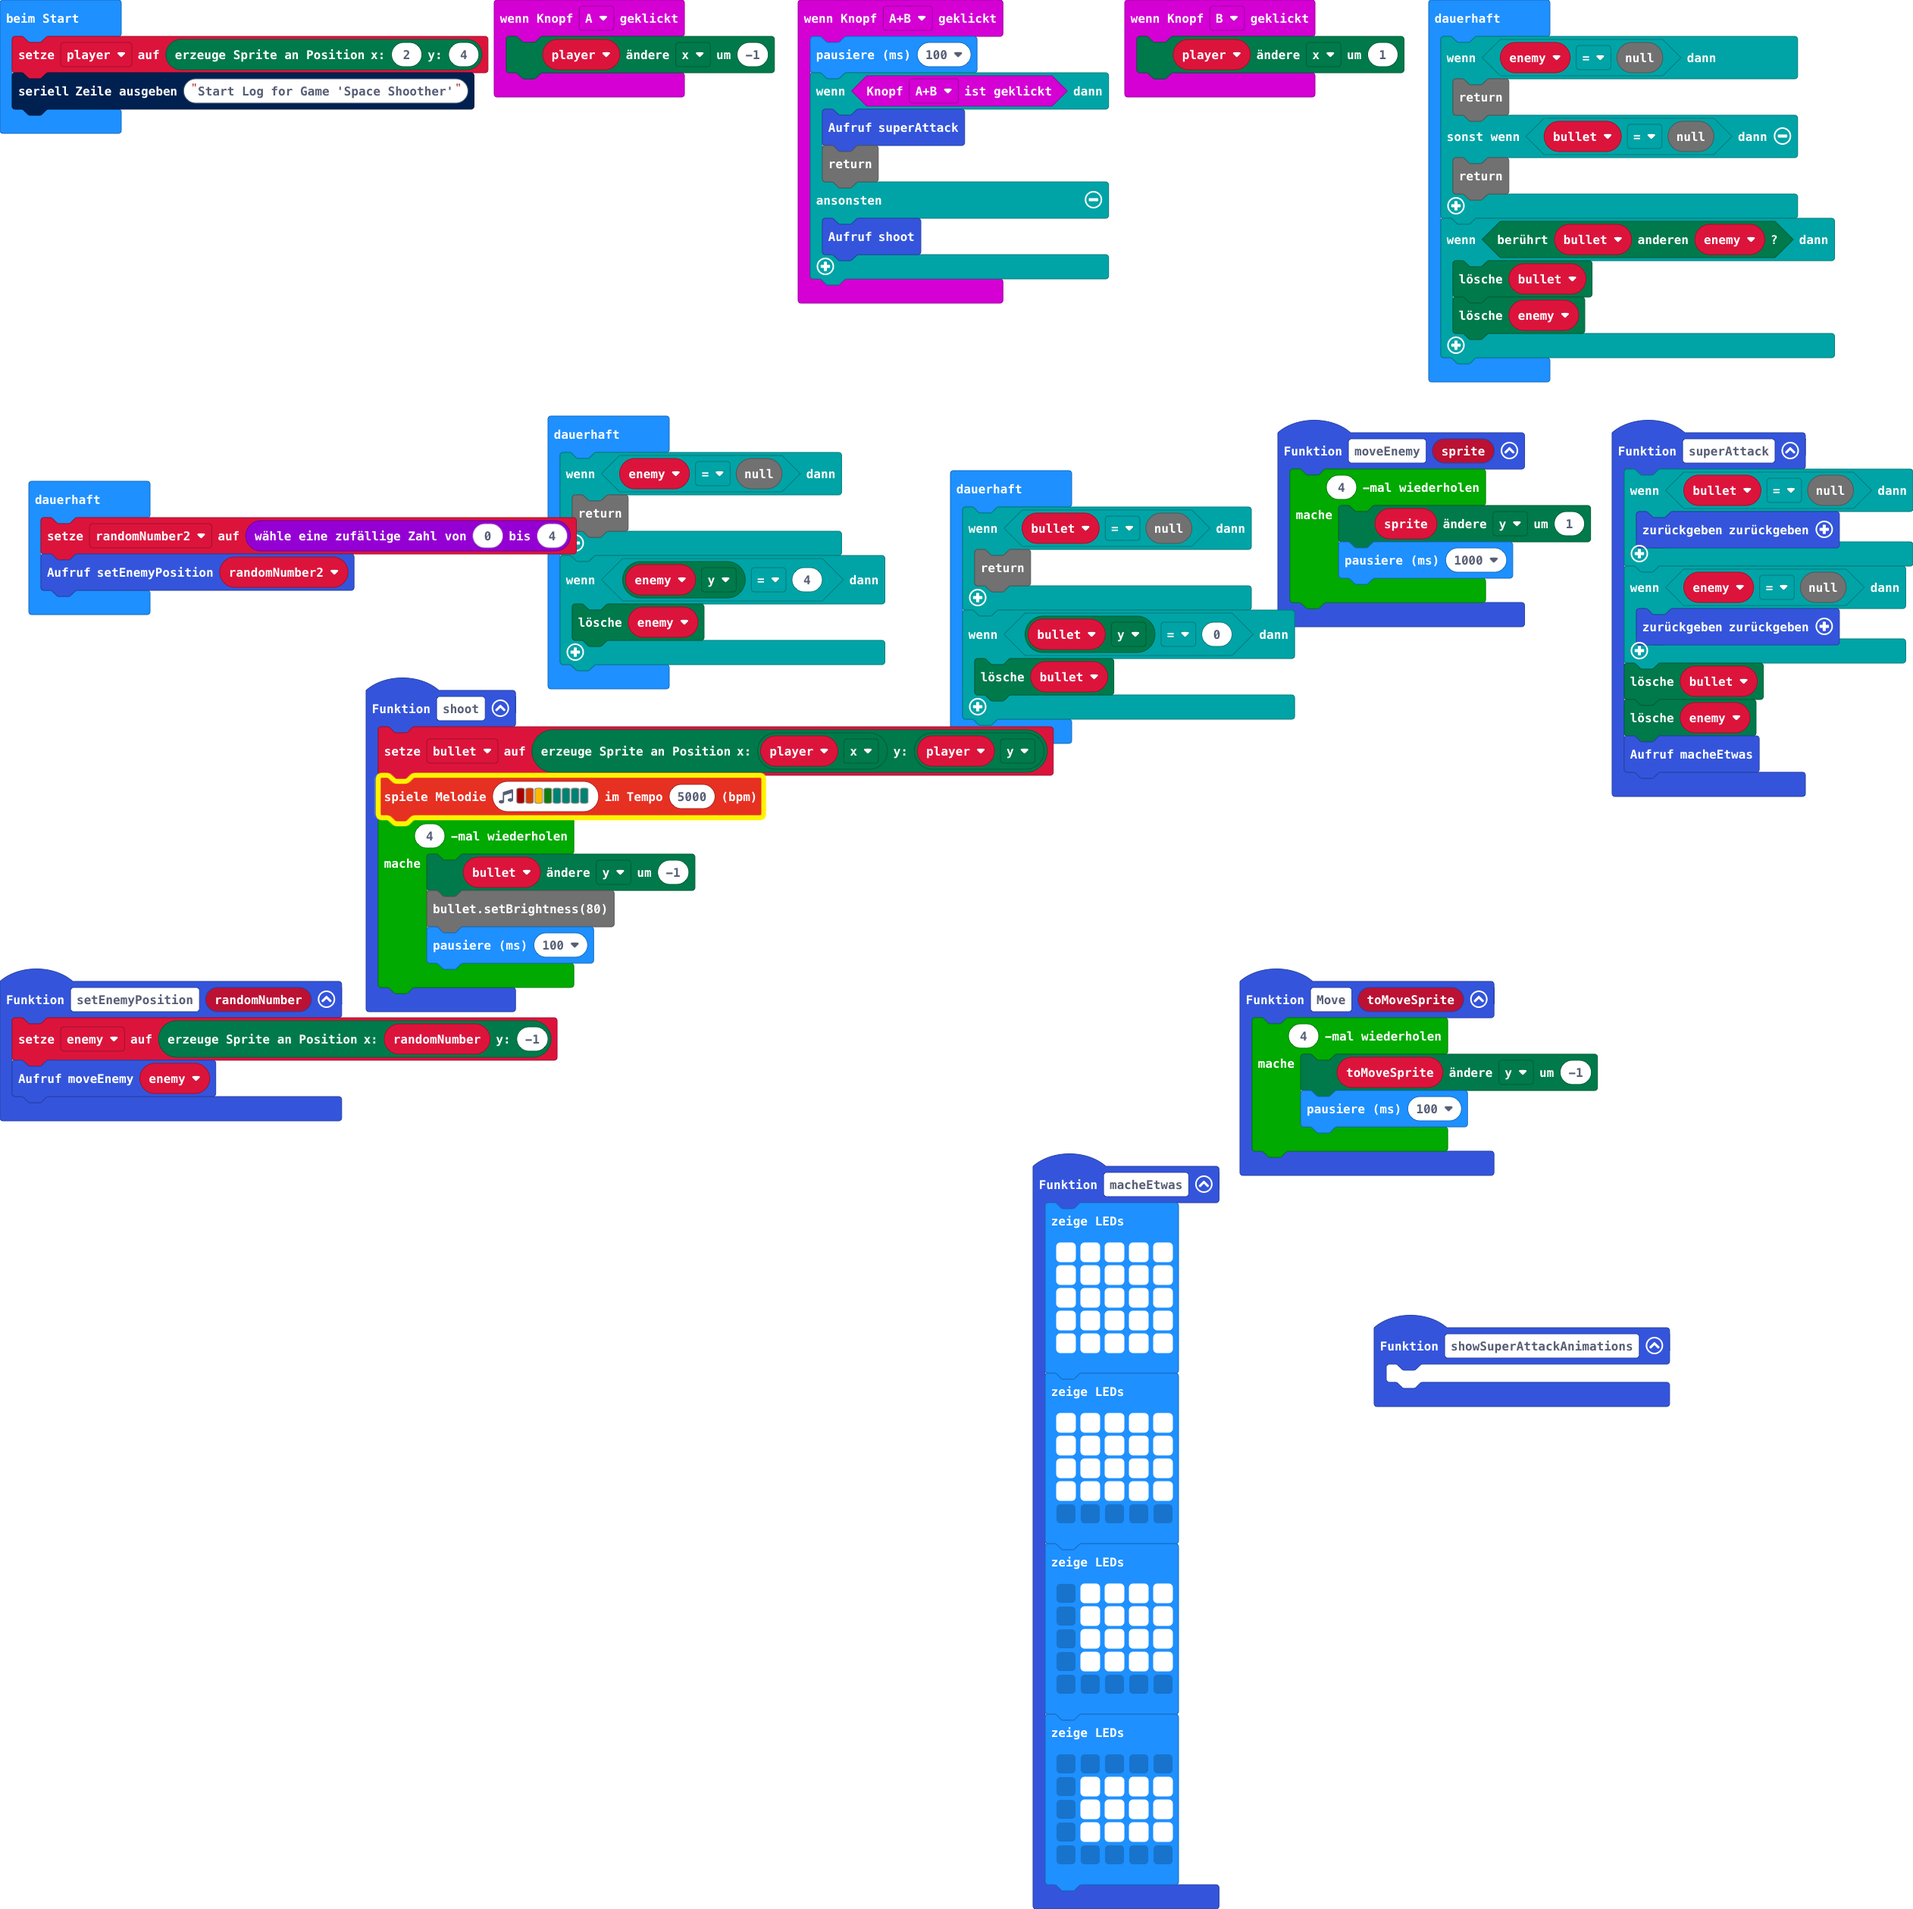
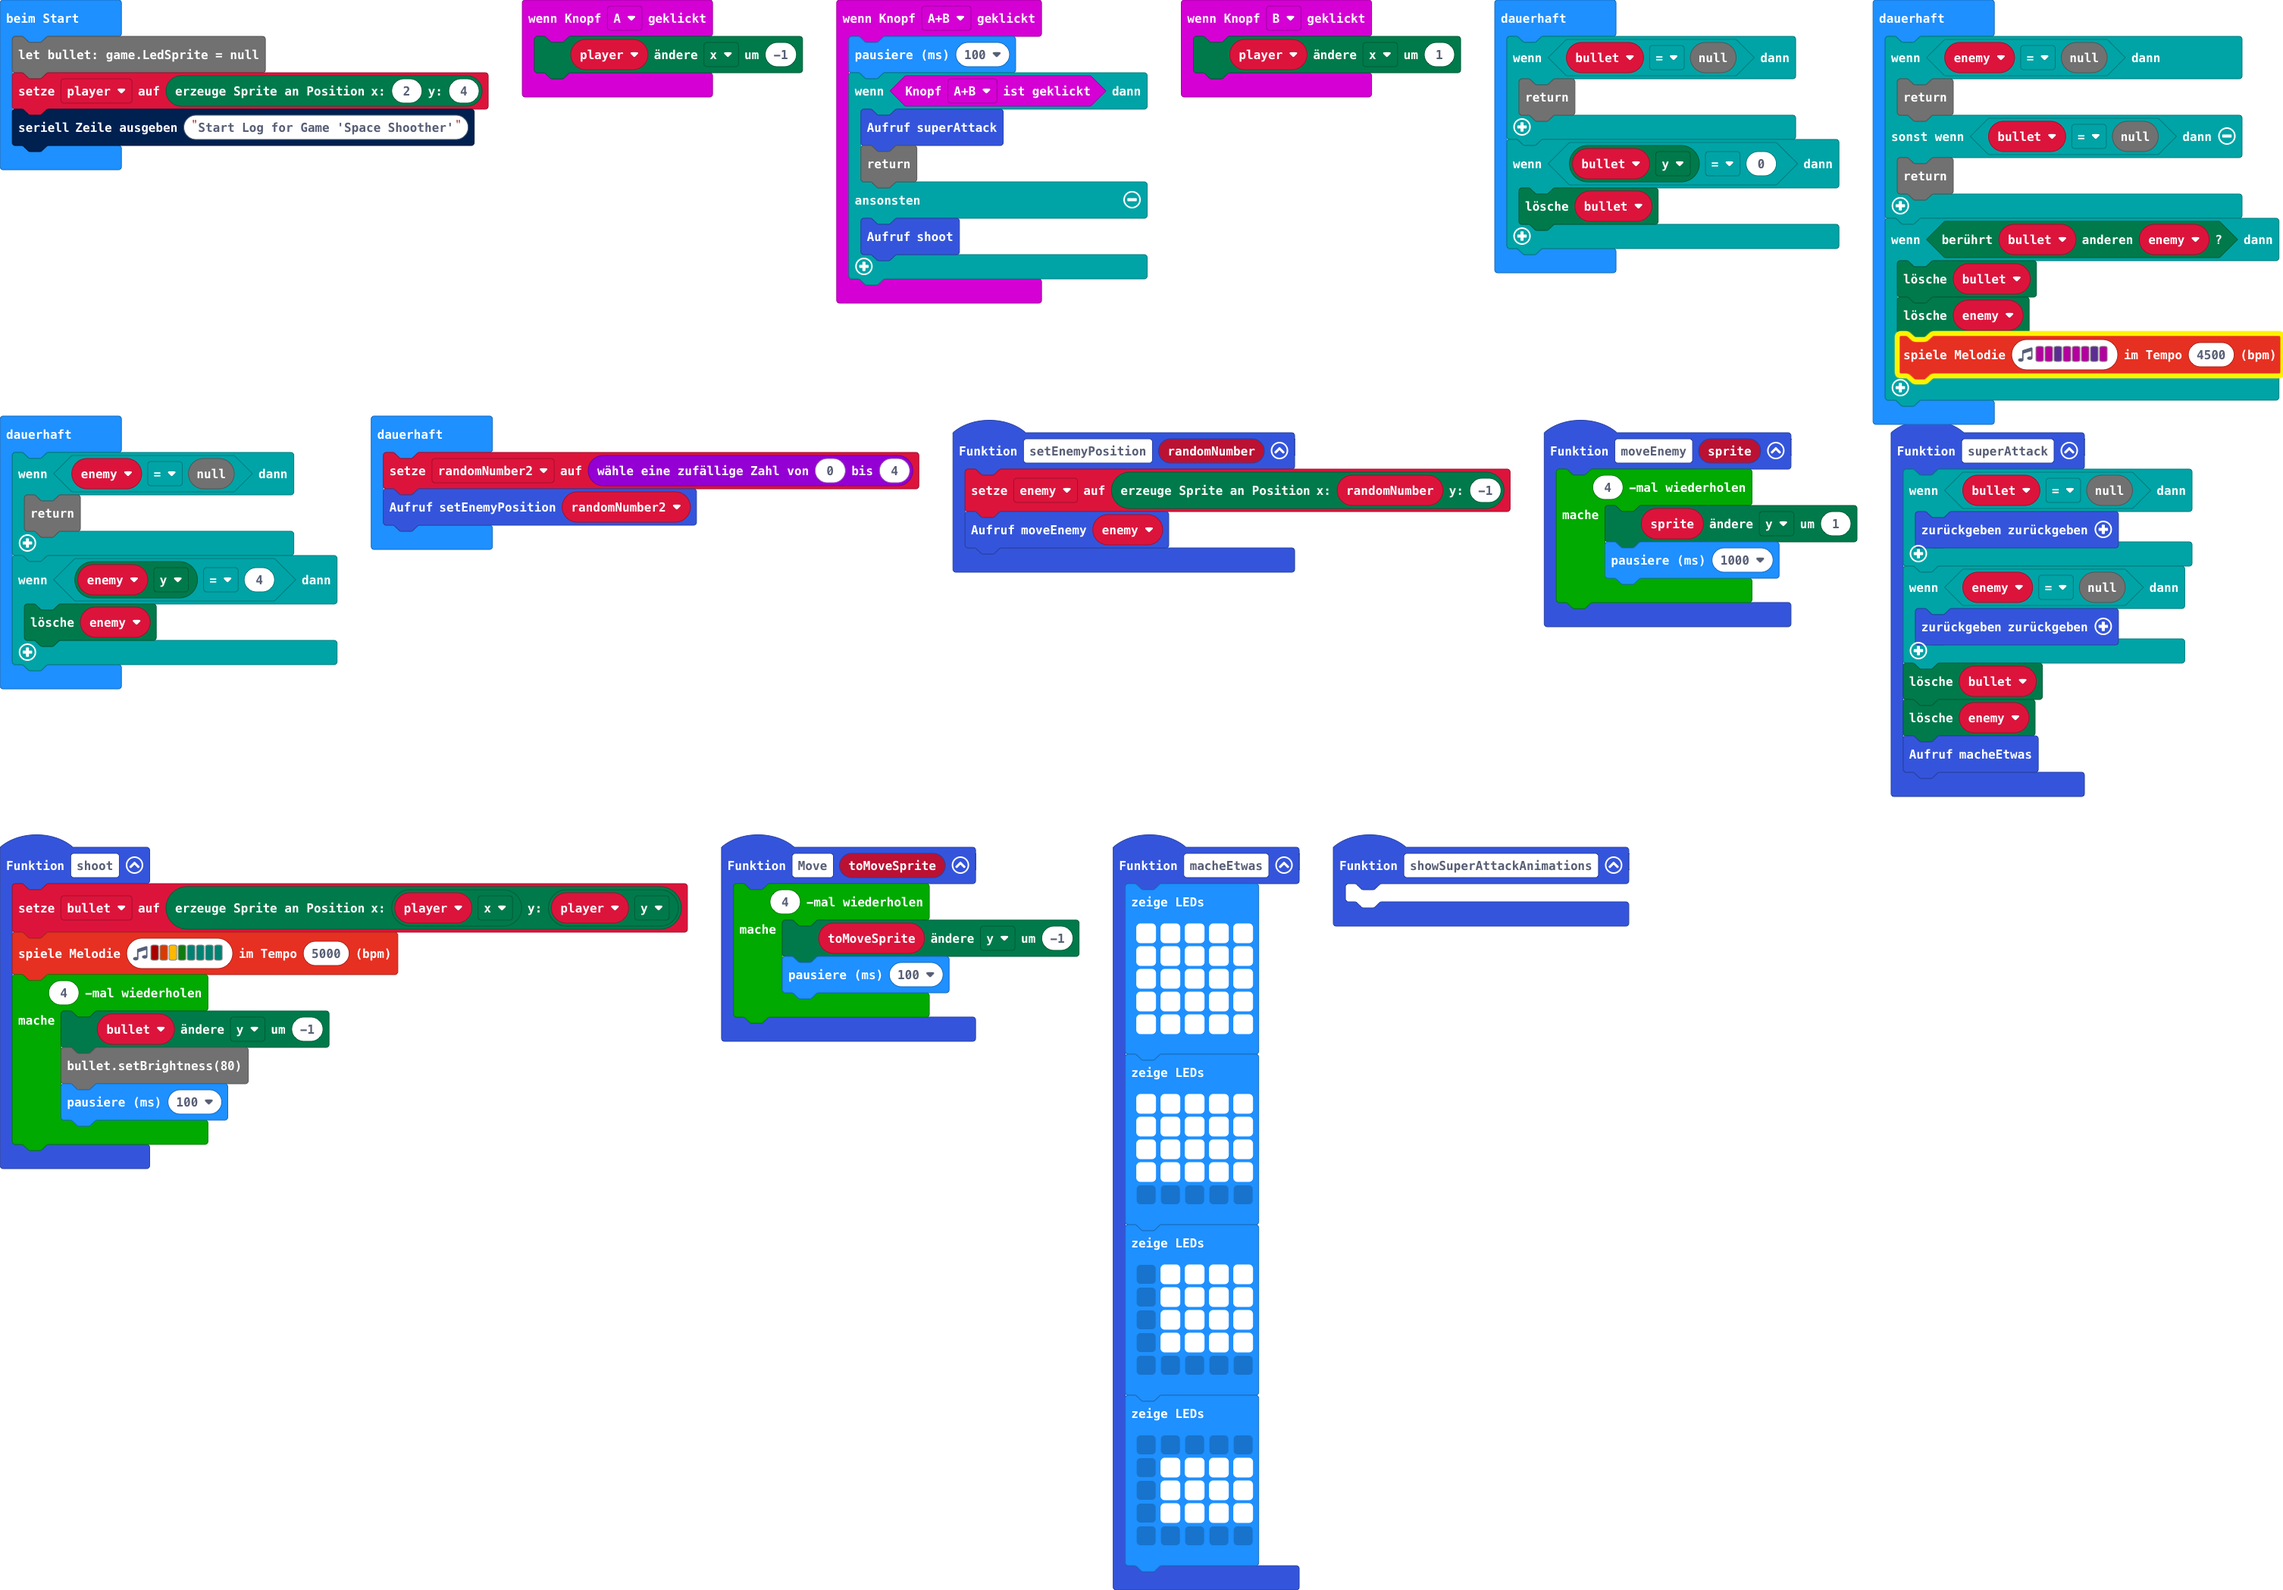
Aktualisiere main.blocks, main.ts

diff --git a/main.ts b/main.ts
@@ -84,10 +84,18 @@ function setEnemyPosition (randomNumber: number) {
 }
 let randomNumber2 = 0
 let enemy: game.LedSprite = null
-let bullet: game.LedSprite = null
 let player: game.LedSprite = null
+let bullet: game.LedSprite = null
 player = game.createSprite(2, 4)
 serial.writeLine("Start Log for Game 'Space Shoother'")
+basic.forever(function () {
+    if (bullet == null) {
+        return
+    }
+    if (bullet.get(LedSpriteProperty.Y) == 0) {
+        bullet.delete()
+    }
+})
 basic.forever(function () {
     if (enemy == null) {
         return
@@ -97,6 +105,7 @@ basic.forever(function () {
     if (bullet.isTouching(enemy)) {
         bullet.delete()
         enemy.delete()
+        music.playMelody("C C D C C C D C ", 4500)
     }
 })
 basic.forever(function () {
@@ -110,12 +119,4 @@ basic.forever(function () {
 basic.forever(function () {
     randomNumber2 = randint(0, 4)
     setEnemyPosition(randomNumber2)
-})
-basic.forever(function () {
-    if (bullet == null) {
-        return
-    }
-    if (bullet.get(LedSpriteProperty.Y) == 0) {
-        bullet.delete()
-    }
 })
